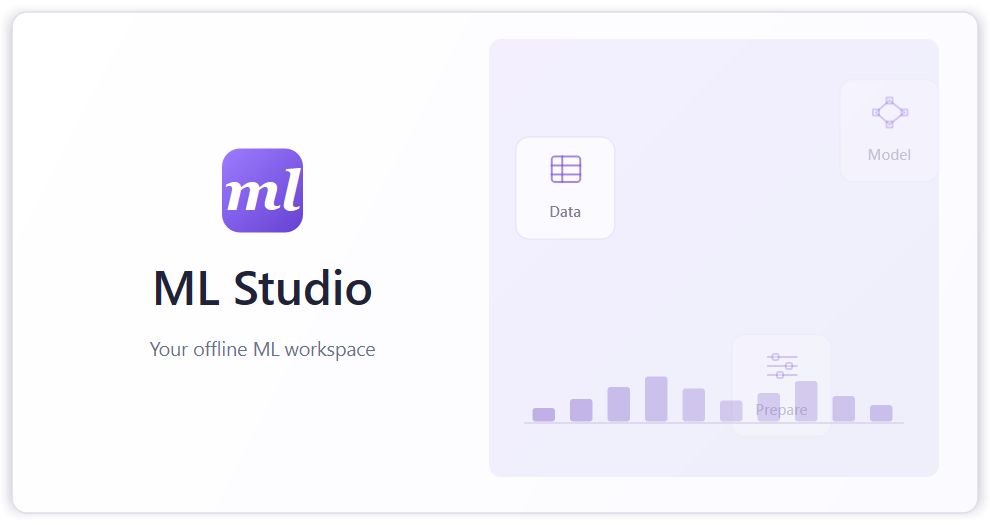
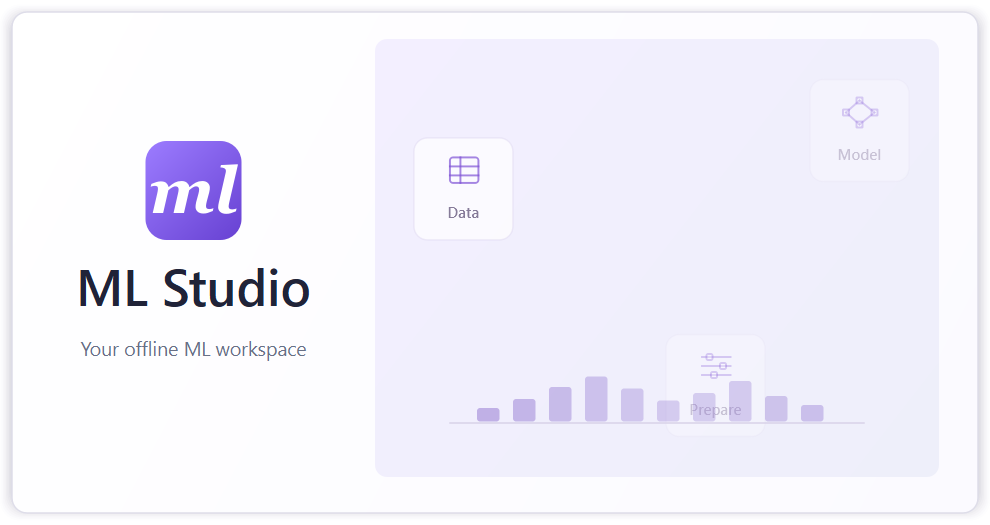
Tighten splash branding whitespace

diff --git a/src/mlstudio/launch_splash.py b/src/mlstudio/launch_splash.py
@@ -93,32 +93,32 @@ class LaunchSplash(QWidget):
         p.drawRoundedRect(QRectF(8, 8, 644, 334), 10, 10)
 
         # Wordmark and left-aligned type replace the old central orbit.
-        logo = QLinearGradient(148, 99, 202, 155)
+        logo = QLinearGradient(97, 94, 161, 160)
         logo.setColorAt(0, QColor('#9c7cff'))
         logo.setColorAt(1, QColor('#6741d2'))
         p.setBrush(logo)
         p.setPen(Qt.PenStyle.NoPen)
-        p.drawRoundedRect(QRectF(148, 99, 54, 56), 12, 12)
+        p.drawRoundedRect(QRectF(97, 94, 64, 66), 14, 14)
         font = QFont('Georgia')
-        font.setPixelSize(37)
+        font.setPixelSize(43)
         font.setBold(True)
         font.setItalic(True)
         p.setFont(font)
         p.setPen(QColor('#ffffff'))
-        p.drawText(QRectF(148, 99, 54, 56), Qt.AlignmentFlag.AlignCenter, 'ml')
-        text((36, 169, 278, 42), 'ML Studio', 32, '#202338', QFont.Weight.DemiBold,
+        p.drawText(QRectF(97, 94, 64, 66), Qt.AlignmentFlag.AlignCenter, 'ml')
+        text((8, 169, 242, 42), 'ML Studio', 34, '#202338', QFont.Weight.DemiBold,
              Qt.AlignmentFlag.AlignHCenter | Qt.AlignmentFlag.AlignVCenter)
-        text((36, 221, 278, 22), 'Your offline ML workspace', 13, '#687086',
+        text((8, 221, 242, 22), 'Your offline ML workspace', 13, '#687086',
              align=Qt.AlignmentFlag.AlignHCenter | Qt.AlignmentFlag.AlignVCenter)
 
         # A decorative miniature workflow, without pretend task completion.
         p.setPen(Qt.PenStyle.NoPen)
-        panel = QLinearGradient(326, 26, 626, 318)
+        panel = QLinearGradient(250, 26, 626, 318)
         panel.setColorAt(0, QColor('#f3efff'))
         panel.setColorAt(1, QColor('#eeeffa'))
         p.setBrush(panel)
-        p.drawRoundedRect(QRectF(326, 26, 300, 292), 8, 8)
-        positions = [(348, 113), (444, 159), (540, 113)]
+        p.drawRoundedRect(QRectF(250, 26, 376, 292), 8, 8)
+        positions = [(280, 113), (400, 159), (520, 113)]
         arrival_offsets = [(-10, -52), (44, 64), (20, -60)]
         arrival_duration = .88
         arrival_gap = .46
@@ -197,14 +197,14 @@ class LaunchSplash(QWidget):
 
         # Small abstract chart strokes give the composition a data texture.
         p.setPen(QPen(QColor('#d8d2e8'), 1))
-        p.drawLine(QPointF(350, 282), QPointF(602, 282))
+        p.drawLine(QPointF(300, 282), QPointF(576, 282))
         p.setPen(Qt.PenStyle.NoPen)
         for index, height in enumerate([9, 15, 23, 30, 22, 14, 19, 27, 17, 11]):
             alpha = .35 if self.reduced_motion else .3+.23*(1+math.sin(t*1.7-index*.4))/2
             color = QColor('#8d70cf')
             color.setAlphaF(alpha)
             p.setBrush(color)
-            p.drawRoundedRect(QRectF(355+index*25, 281-height, 15, height), 2, 2)
+            p.drawRoundedRect(QRectF(318+index*24, 281-height, 15, height), 2, 2)
 
         p.end()
 
